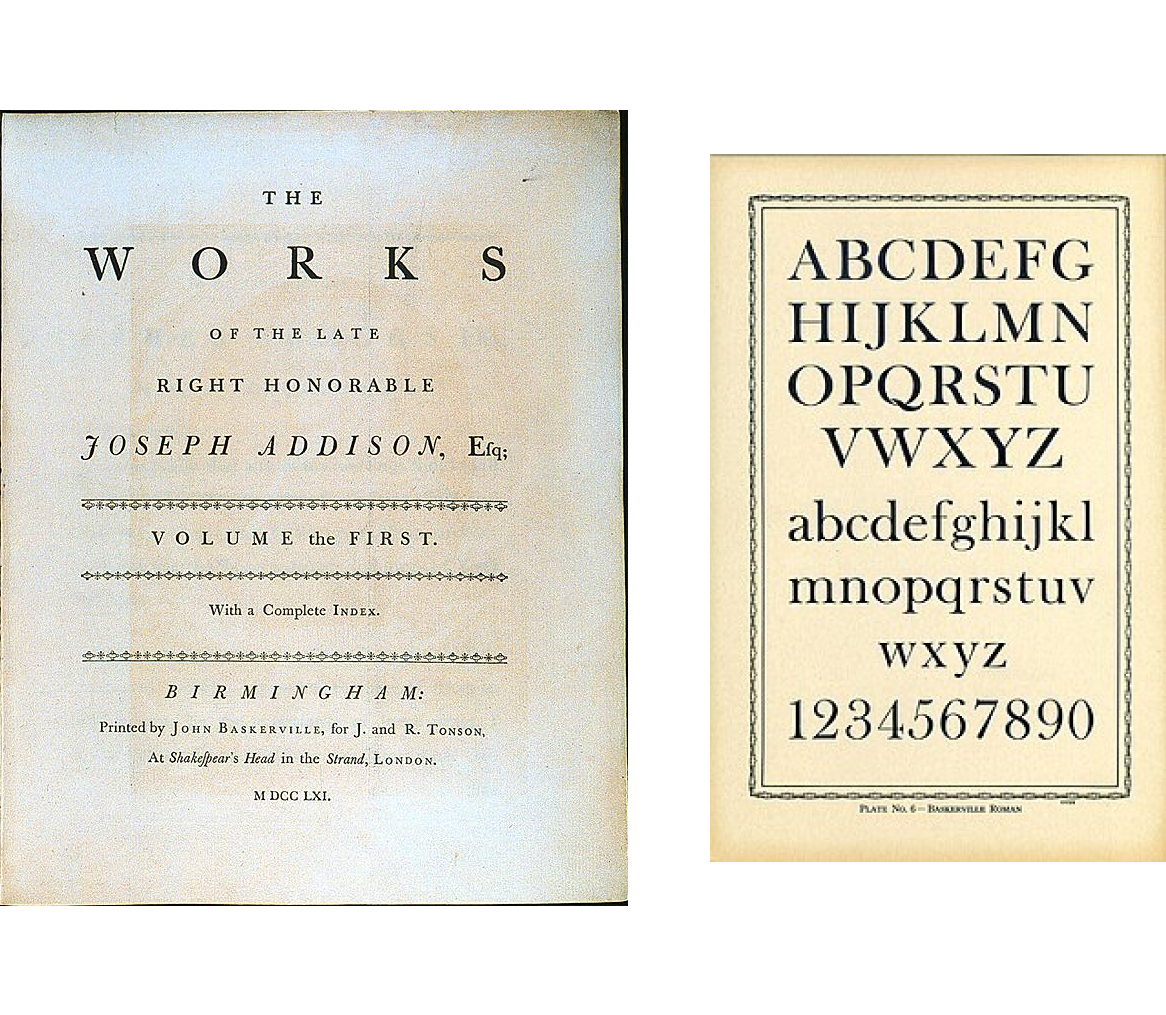
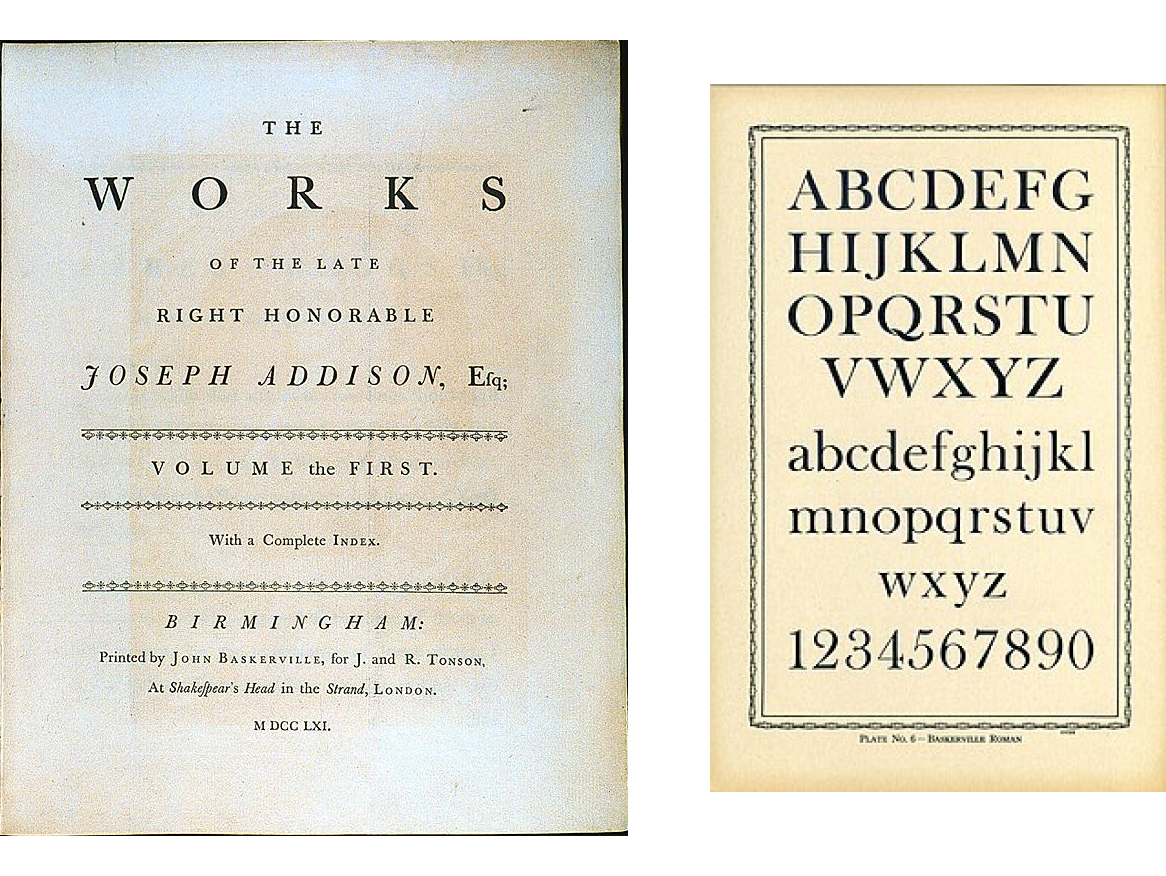
image oopsie 2

diff --git a/Baskerville.html b/Baskerville.html
@@ -11,7 +11,7 @@
     <h1 style="padding-bottom: 8px">Baskerville Font</h1>
     <h3>Feb 13, 2026</h3>
     <br />
-    <img src="assets/baskvervillefontblog/baskerville font.png" width="120%" />
+    <img src="assets/baskvervillefontblog/baskerville font.png" width="80%" style="margin-left: 10%;" />
     <h5>
       The typeface was designed by John Baskerville in 1757, Birmingham England.
       Typography cut by punchcutter John Handy. <br /><br />
